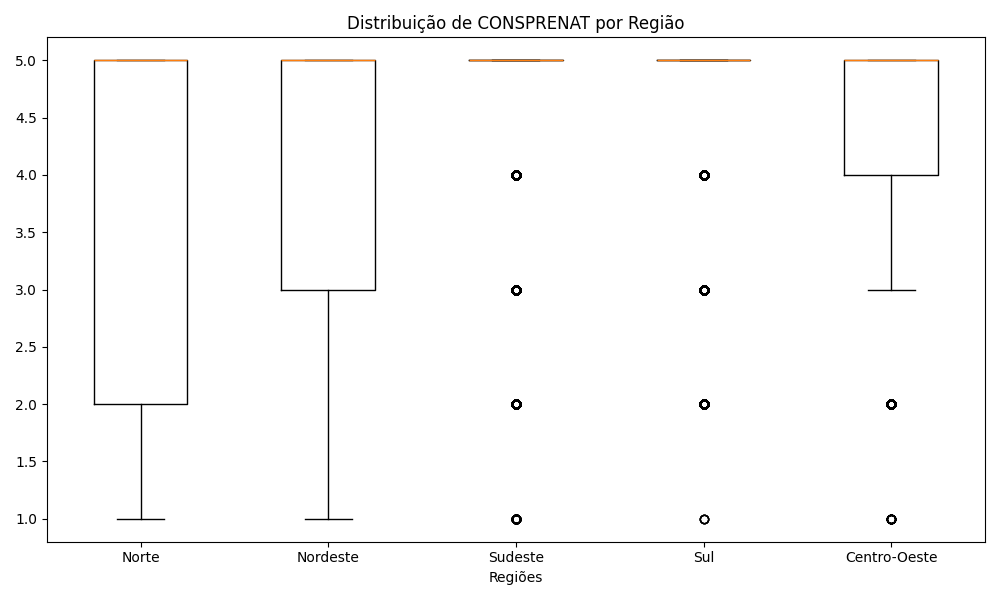
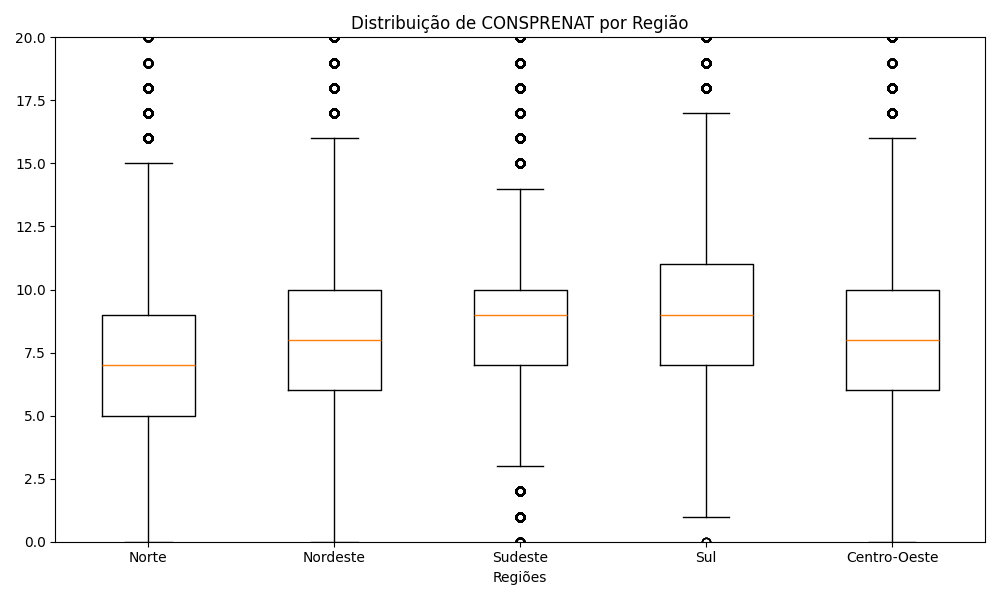
Adicione alterações nas imagens geradas

diff --git a/analysis-saulo/generate_images.py b/analysis-saulo/generate_images.py
@@ -20,14 +20,17 @@ df = df[["CODMUNNASC", column_name1, column_name2]]
 state_data = analysis.separate_by_location(df, state_mapping)
 region_data = analysis.separate_by_location(df, region_mapping)
 
+# Tabela das médias (CONSPRENAT)
+analysis.calculate_and_save_region_averages(region_data, column_name2, "data_analise/average_region.CONSPRENAT.csv")
+
 # Imagem 1: Gráfico de Barras para Regiões (CONSPRENAT)
-output_path_consprenat = 'data_analise/images/bar_plot_region.png'
-generate_bar(region_data, column_name1, "Regiões", f"Média de {column_name2} por Região", output_path_consprenat)
+output_path_1 = 'data_analise/images/bar_plot_region.png'
+generate_bar(region_data, column_name2, "Regiões", f"Média de {column_name2} por Região", output_path_1)
 
 # Imagem 2: Boxplot para Regiões (CONSPRENAT)
-output_path_kotelchuck = 'data_analise/images/boxplot_region.png'
-generate_boxplot(region_data, column_name1, "Regiões", f"Distribuição de {column_name2} por Região", output_path_kotelchuck)
+output_path_2 = 'data_analise/images/boxplot_region.png'
+generate_boxplot(region_data, column_name2, "Regiões", f"Distribuição de {column_name2} por Região", output_path_2, 20)
 
 # Teste 3: Mapa de calor cpara estados (KOTELCHUCK)
-output_path_heatmap = 'data_analise/images/heatmap.png'
-generate_heatmap(state_data, column_name1, shapefile_path, output_path_heatmap)
+output_path_3 = 'data_analise/images/heatmap.png'
+generate_heatmap(state_data, column_name1, shapefile_path, output_path_3)
